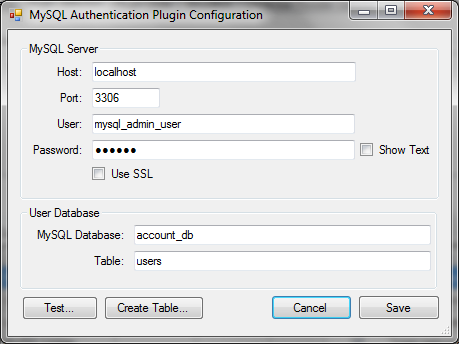
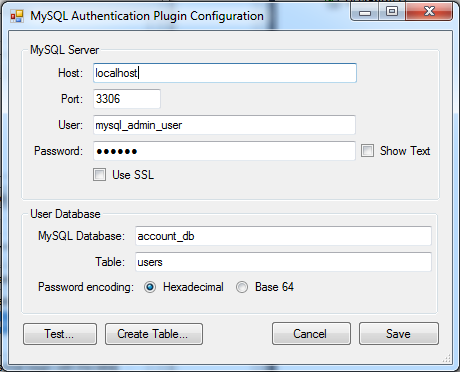
Update docs for MySQL auth plugin.

Changed region(s): [[0.0, 0.0, 1.0, 1.0], [0.7625, 0.1744, 0.793, 0.2035]]

diff --git a/mysql_auth.md b/mysql_auth.md
@@ -33,6 +33,37 @@ A typical (minimal) setup for MySQL Authentication is to enable the Local Machin
 authentication and gateway stages, and enable MySQL Auth. in the authentication stage.  Within the 
 authentication stage, order the MySQL plugin before Local Machine.
 
+The User Information Table
+-----------------------------
+
+User information must be stored in the MySQL database within a table that has
+at least the following columns:
+
+* `user` - The user name.  This column should be unique (or the primary key).
+* `hash_method` - The hash method used for storing the password.  This can be one
+   of several strings (see below).
+* `password` - The (possibly hashed) password.
+
+The data type of the columns should be a string type such as `TEXT` or `VARCHAR`, 
+but be careful of length limitations.
+
+The `hash_method` column can have one of the following values:
+
+* `NONE` - The password is stored in plain text.
+* `MD5`, `SHA1`, `SHA256`, `SHA384`, or `SHA512`
+* `SMD5`, `SSHA1`, `SSHA256`, `SSHA384`, or `SSHA512` (The salted versions of above)
+
+### Salted Passwords
+
+If any of the salted hash methods are used, this plugin expects the data to be
+organized as follows.  The `password` column must contain a hexadecimal or
+base 64 encoded string that contains the following:
+
+**encoding** ( **hash**( *password* + *salt* ) + *salt* )
+
+Where **encoding** converts to a string using either hexadecimal or base 64 
+encoding, and **hash** applies the appropriate hash algorithm.
+
 Configuration
 -------------------
 
@@ -47,7 +78,9 @@ Note that for this to work correctly, your MySQL server must have SSL enabled.  
 information on setting up a MySQL server with SSL, see 
 [the MySQL documentation](http://dev.mysql.com/doc/refman/5.1/en/secure-connections.html).
 * **MySQL Database** -- The database containing the account information table.
-* **Table** -- The name of the account information table.
+* **Table** -- The name of the account information table (see above).
+* **Password encoding** -- The binary encoding used in the `password` column of
+the database.
 
 The "Test..." button initiates a test of the MySQL connection, and verifies that the account
 table exists and is properly formatted.
